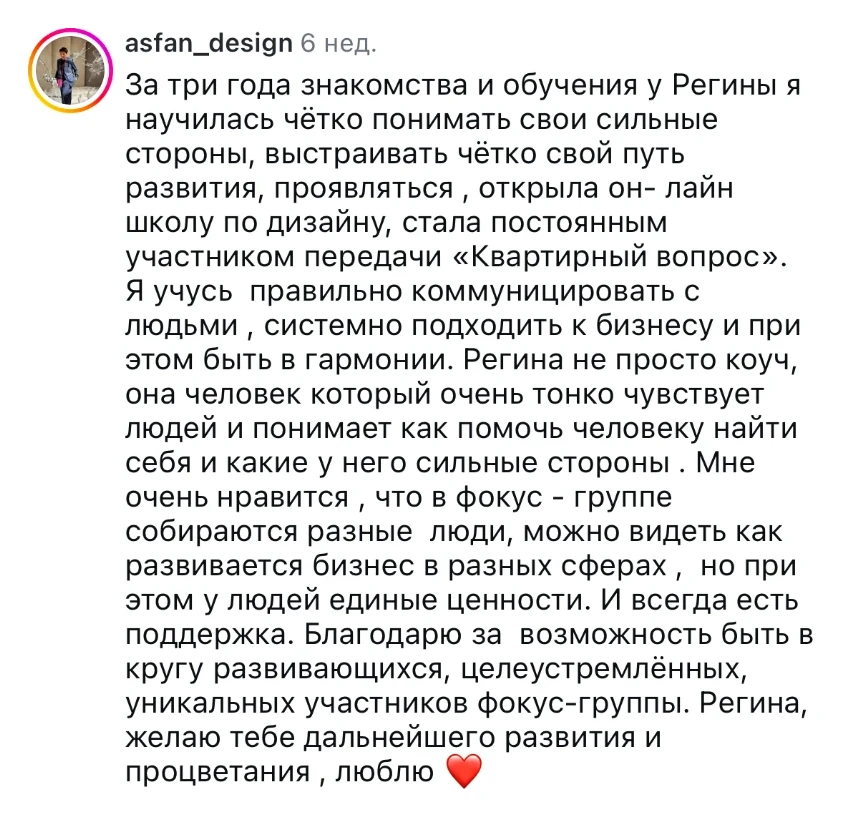
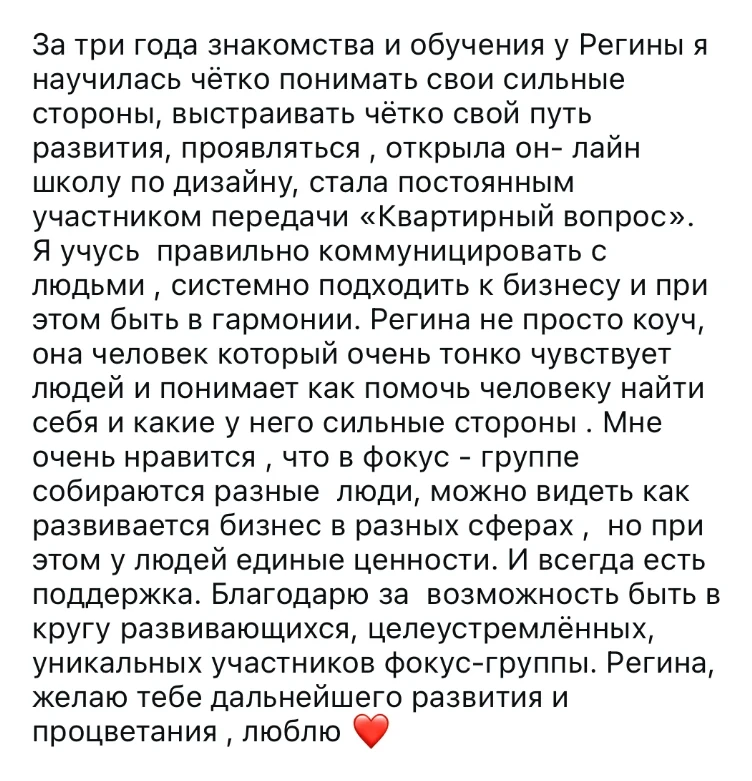
Отзывы из комментариев: только слова клиента, без ника, аватара и подписи
Claude-Session: https://claude.ai/code/session_01FBrDJejmie4Nre3y7reRmV

diff --git a/js/data.js b/js/data.js
@@ -62,7 +62,8 @@ const EXPERTS = [
    Необязательные поля:
      photo      — фото (например, с офлайн-встречи), выводится над скрином;
      photoLabel — подпись плейсхолдера, пока фото нет;
-     caption    — подпись под скрином вместо имени (когда имя уже видно на скрине).
+     caption    — подпись под скрином вместо имени (когда имя уже видно на скрине);
+     showAuthor — false: под скрином ничего не пишем (скрин — только слова клиента).
 
    Пока screenshot пустой (''), отзыв НЕ показывается на странице — он ждёт
    своего скрина. Требования к скринам — в README.
@@ -128,23 +129,23 @@ const REVIEWS = [
     caption: 'сообщение в чате клуба',
   },
 
-  // --- Комментарии к публикации Регины ---
+  // --- Отзывы из комментариев: вырезан только текст, без ника и аватара ---
   {
-    author: 'olgaramazanova_miras',
+    author: 'olgaramazanova_miras', // не выводится на странице
     text: 'Регина, за этот год в твоём клубе у нас произошли глобальные изменения и преобразования! Как важно найти единомышленников и вместе развиваться, двигаться в своём ритме и перестать сомневаться. Дальше — больше!',
     screenshot: 'images/reviews/olgaramazanova.webp',
-    caption: 'комментарий к публикации Регины',
+    showAuthor: false,
   },
   {
-    author: 'disneymama.cruise',
+    author: 'disneymama.cruise', // не выводится на странице
     text: 'Регина, как же я благодарна Вам и Вашей команде. Моя жизнь и мой бизнес изменились так сильно, что трудно поверить. Меня Дисней начал приглашать на специальные круизы и именно запрашивать мою кандидатуру.',
     screenshot: 'images/reviews/disneymama-cruise.webp',
-    caption: 'комментарий к публикации Регины',
+    showAuthor: false,
   },
   {
-    author: 'asfan_design',
+    author: 'asfan_design', // не выводится на странице
     text: 'За три года знакомства и обучения у Регины я научилась чётко понимать свои сильные стороны, выстраивать свой путь развития, проявляться, открыла онлайн-школу по дизайну, стала постоянным участником передачи «Квартирный вопрос». И всегда есть поддержка.',
     screenshot: 'images/reviews/asfan-design.webp',
-    caption: 'комментарий к публикации Регины',
+    showAuthor: false,
   },
 ];

diff --git a/js/render.js b/js/render.js
@@ -66,7 +66,7 @@
     if (review.screenshot) {
       const img = el('img');
       img.src = review.screenshot;
-      img.alt = 'Сообщение от участника клуба ' + review.author + ': «' + review.text + '»';
+      img.alt = (review.showAuthor === false ? 'Отзыв участника клуба' : 'Сообщение от участника клуба ' + review.author) + ': «' + review.text + '»';
       img.loading = 'lazy';
       fig.appendChild(img);
     } else {
@@ -91,7 +91,7 @@
       }
       card.appendChild(reviewShot(review, i));
       if (review.caption) card.appendChild(el('p', 'review__caption', review.caption));
-      else card.appendChild(el('p', 'review__author', review.author));
+      else if (review.showAuthor !== false) card.appendChild(el('p', 'review__author', review.author));
       frag.appendChild(card);
     });
     root.appendChild(frag);
